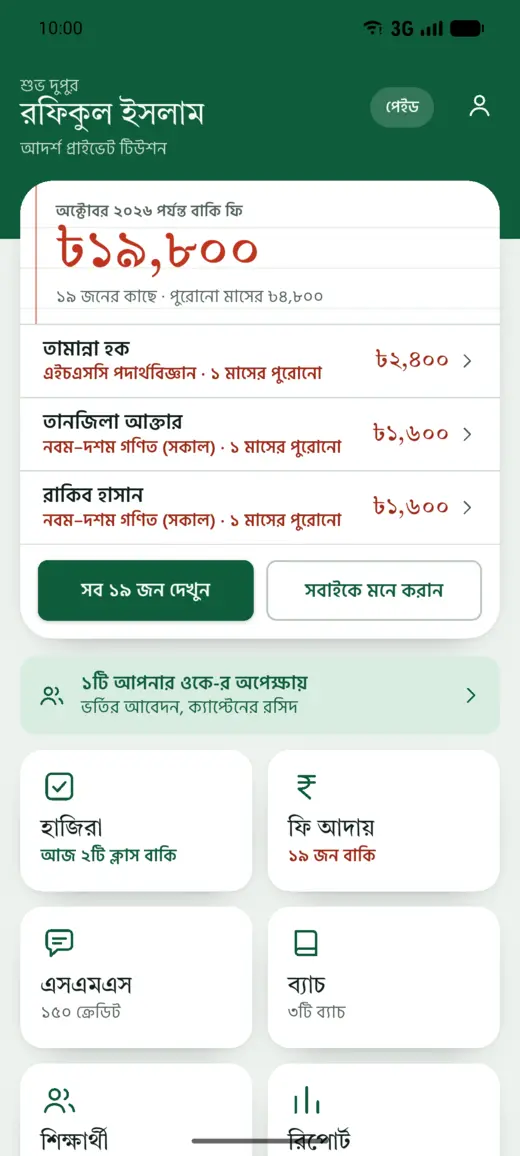
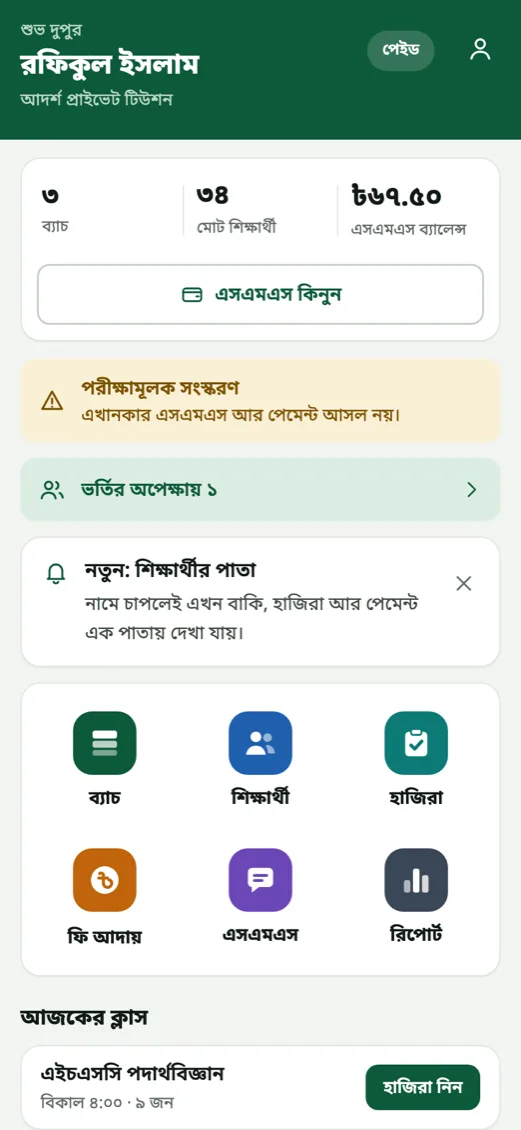
Tuition Khata: new home, student and income screens; closed test live

diff --git a/index.html b/index.html
@@ -470,13 +470,13 @@
 </div>
 </div>
 </article>
-<article class="card defer" id="p-tuitionkhata" data-ind="edu" data-live="0" data-q="tuition khata টিউশন খাতা tutor&#39;s fee and attendance app edu টিউশন টিউটর ফি tutor a home tutor sees who has paid this month and reminds the rest in one tap. flutter go mysql android" style="--b:#0E5C3B">
-<div class="cover cover-phone"><img src="assets/work/tuitionkhata-1.webp" width="520" height="1156" alt="Tuition Khata: Home: total dues and who is late" loading="lazy" decoding="async"></div>
+<article class="card defer" id="p-tuitionkhata" data-ind="edu" data-live="0" data-q="tuition khata টিউশন খাতা tutor&#39;s fee and attendance app edu টিউশন টিউটর ফি tutor a home tutor sees who has paid this month and reminds the rest in one tap. flutter go sqlite android" style="--b:#0E5C3B">
+<div class="cover cover-phone"><img src="assets/work/tuitionkhata-1.webp" width="521" height="1130" alt="Tuition Khata: Home: batches, students and SMS balance, with Buy SMS" loading="lazy" decoding="async"></div>
 <div class="body">
 <div class="head"><img class="logo" src="assets/logos/tuitionkhata.webp" width="40" height="40" alt="" loading="lazy" decoding="async"><div><h3 class="names"><span class="bn" lang="bn">টিউশন খাতা</span><span class="en">Tuition Khata</span></h3><p class="kind">Tutor&#39;s fee and attendance app</p></div></div>
-<span class="status s-review">In Play review</span>
+<span class="status s-review">Play closed test</span>
 <p class="promise">A home tutor sees who has paid this month and reminds the rest in one tap.</p>
-<ul class="tags" aria-label="Built with"><li>Flutter</li><li>Go</li><li>MySQL</li><li>Android</li></ul>
+<ul class="tags" aria-label="Built with"><li>Flutter</li><li>Go</li><li>SQLite</li><li>Android</li></ul>
 <div class="actions">
 <div class="row row-sub"></div>
 <div class="row"><span class="btn btn-quiet">No public link yet</span><button class="btn btn-ghost" type="button" commandfor="d-tuitionkhata" command="show-modal">Details</button></div>
@@ -1364,22 +1364,22 @@
 </dialog>
 <dialog id="d-tuitionkhata" class="sheet" closedby="any" aria-labelledby="t-tuitionkhata" style="--b:#0E5C3B">
 <div class="sheet-in">
-<header class="sheet-head"><img class="logo" src="assets/logos/tuitionkhata.webp" width="48" height="48" alt="" loading="lazy" decoding="async"><div><h2 class="names" id="t-tuitionkhata"><span class="bn" lang="bn">টিউশন খাতা</span><span class="en">Tuition Khata</span></h2><p class="kind">Tutor&#39;s fee and attendance app <span class="status s-review">In Play review</span></p></div><button class="x" type="button" commandfor="d-tuitionkhata" command="close" aria-label="Close"><svg class="ic" viewBox="0 0 16 16" aria-hidden="true"><path d="m4 4 8 8M12 4l-8 8" stroke="currentColor" stroke-width="1.6" stroke-linecap="round"/></svg></button></header>
+<header class="sheet-head"><img class="logo" src="assets/logos/tuitionkhata.webp" width="48" height="48" alt="" loading="lazy" decoding="async"><div><h2 class="names" id="t-tuitionkhata"><span class="bn" lang="bn">টিউশন খাতা</span><span class="en">Tuition Khata</span></h2><p class="kind">Tutor&#39;s fee and attendance app <span class="status s-review">Play closed test</span></p></div><button class="x" type="button" commandfor="d-tuitionkhata" command="close" aria-label="Close"><svg class="ic" viewBox="0 0 16 16" aria-hidden="true"><path d="m4 4 8 8M12 4l-8 8" stroke="currentColor" stroke-width="1.6" stroke-linecap="round"/></svg></button></header>
 <p class="sheet-promise">A home tutor sees who has paid this month and reminds the rest in one tap.</p>
-<div class="gal" tabindex="0" aria-label="Tuition Khata screens"><figure class="g-phone"><img src="assets/work/tuitionkhata-1.webp" width="520" height="1156" alt="Tuition Khata: Home: total dues and who is late" loading="lazy" decoding="async"><figcaption>Home: total dues and who is late</figcaption></figure><figure class="g-phone"><img src="assets/work/tuitionkhata-2.webp" width="520" height="1156" alt="Tuition Khata: Who owes, month by month" loading="lazy" decoding="async"><figcaption>Who owes, month by month</figcaption></figure><figure class="g-phone"><img src="assets/work/tuitionkhata-3.webp" width="520" height="1156" alt="Tuition Khata: Attendance for a batch in one screen" loading="lazy" decoding="async"><figcaption>Attendance for a batch in one screen</figcaption></figure><figure class="g-phone"><img src="assets/work/tuitionkhata-4.webp" width="520" height="1156" alt="Tuition Khata: Collect a fee with the number pad" loading="lazy" decoding="async"><figcaption>Collect a fee with the number pad</figcaption></figure><figure class="g-phone"><img src="assets/work/tuitionkhata-5.webp" width="520" height="1156" alt="Tuition Khata: Receipt sent to the guardian by SMS" loading="lazy" decoding="async"><figcaption>Receipt sent to the guardian by SMS</figcaption></figure><figure class="g-phone"><img src="assets/work/tuitionkhata-6.webp" width="520" height="1156" alt="Tuition Khata: Batch with each student&#39;s paid months" loading="lazy" decoding="async"><figcaption>Batch with each student&#39;s paid months</figcaption></figure></div>
+<div class="gal" tabindex="0" aria-label="Tuition Khata screens"><figure class="g-phone"><img src="assets/work/tuitionkhata-1.webp" width="521" height="1130" alt="Tuition Khata: Home: batches, students and SMS balance, with Buy SMS" loading="lazy" decoding="async"><figcaption>Home: batches, students and SMS balance, with Buy SMS</figcaption></figure><figure class="g-phone"><img src="assets/work/tuitionkhata-7.webp" width="521" height="1130" alt="Tuition Khata: Student page: tick the due months and collect" loading="lazy" decoding="async"><figcaption>Student page: tick the due months and collect</figcaption></figure><figure class="g-phone"><img src="assets/work/tuitionkhata-8.webp" width="521" height="1130" alt="Tuition Khata: Six months of income, all batches or one" loading="lazy" decoding="async"><figcaption>Six months of income, all batches or one</figcaption></figure><figure class="g-phone"><img src="assets/work/tuitionkhata-2.webp" width="520" height="1156" alt="Tuition Khata: Who owes, month by month" loading="lazy" decoding="async"><figcaption>Who owes, month by month</figcaption></figure><figure class="g-phone"><img src="assets/work/tuitionkhata-3.webp" width="520" height="1156" alt="Tuition Khata: Attendance for a batch in one screen" loading="lazy" decoding="async"><figcaption>Attendance for a batch in one screen</figcaption></figure><figure class="g-phone"><img src="assets/work/tuitionkhata-4.webp" width="520" height="1156" alt="Tuition Khata: Collect a fee with the number pad" loading="lazy" decoding="async"><figcaption>Collect a fee with the number pad</figcaption></figure><figure class="g-phone"><img src="assets/work/tuitionkhata-5.webp" width="520" height="1156" alt="Tuition Khata: Receipt sent to the guardian by SMS" loading="lazy" decoding="async"><figcaption>Receipt sent to the guardian by SMS</figcaption></figure><figure class="g-phone"><img src="assets/work/tuitionkhata-6.webp" width="520" height="1156" alt="Tuition Khata: Batch with each student&#39;s paid months" loading="lazy" decoding="async"><figcaption>Batch with each student&#39;s paid months</figcaption></figure></div>
 <div class="sheet-grid">
 <div>
 <h3>What it does</h3>
-<ul class="facts"><li>Batches, students, attendance and monthly fees</li><li>Bulk reminders and receipts by SMS</li><li>Partial payments carried to the next month</li></ul>
+<ul class="facts"><li>Batches, students, attendance and monthly fees</li><li>Bulk reminders and receipts by SMS</li><li>SMS credits bought in the app with bKash, credited instantly</li><li>Six-month income chart per batch</li></ul>
 <h3>Who it is for</h3>
 <p>Private tutors and small coaching batches.</p>
 <h3>Price</h3><p>৳400 a month, ৳2,160 for 6 months or ৳3,840 for a year.</p>
 </div>
 <aside class="try">
 <h3>Try it</h3>
-<p class="note">The Play closed test is in review; the opt-in link works once Google approves it.</p>
+<p class="note">Live on the Play closed test, and the APK is a direct download from the server.</p>
 <h3>Built with</h3>
-<ul class="tags"><li>Flutter</li><li>Go</li><li>MySQL</li><li>Android</li></ul>
+<ul class="tags"><li>Flutter</li><li>Go</li><li>SQLite</li><li>Android</li></ul>
 </aside>
 </div>
 </div>

diff --git a/sw.js b/sw.js
@@ -1,4 +1,4 @@
-const CACHE = "ae-2026-10-25-1";
+const CACHE = "ae-2026-10-26-1";
 const CORE = [
   "./",
   "index.html",
